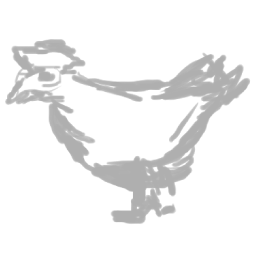
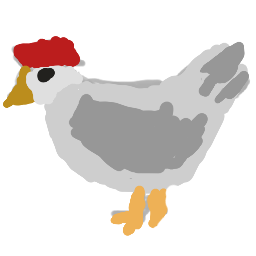
wf update egg sprites

diff --git a/client/src/wf/components/collectable/collectable.tsx b/client/src/wf/components/collectable/collectable.tsx
@@ -8,17 +8,11 @@ interface ICollectableProps{
     onCollect: ()=>void;
 }
 
-const colors = {
-    'egg0': '#090',
-    'egg1': '#f90',
-    'egg2': '#f9f'
-}
-
 export function Collectable({itemData, onCollect}: ICollectableProps){
     const {assets} =  useContext(AssetsContext);
     return <div className="wf_collectable"
     onClick={onCollect}
-    style={{left: itemData.position.x, top: itemData.position.y, 'background-color': colors[itemData.type as keyof typeof colors], 'background-image': `url(${assets[itemData.type].objectUrl})`}}
+    style={{left: itemData.position.x, top: itemData.position.y, 'background-image': `url(${assets[itemData.type].objectUrl})`}}
     >
     </div>
 }

diff --git a/client/src/wf/components/collectable/collectable.css b/client/src/wf/components/collectable/collectable.css
@@ -1,8 +1,8 @@
 .wf_collectable{
    position: absolute;
-    width: 10px;
-    height: 10px;
-    background-color: #00f; 
+    width: 28px;
+    height: 28px;
+    background-color: transparent; 
     background-size: contain;
     background-repeat: no-repeat;
 }

diff --git a/client/src/wf/components/animal/animal.css b/client/src/wf/components/animal/animal.css
@@ -1,7 +1,7 @@
 .wf_animal{
     position: absolute;
-    width: 32px;
-    height: 32px;
+    width: 45px;
+    height: 45px;
     transform: translate(-50%, -50%);
     background-color: transparent;
     background-size: contain;
